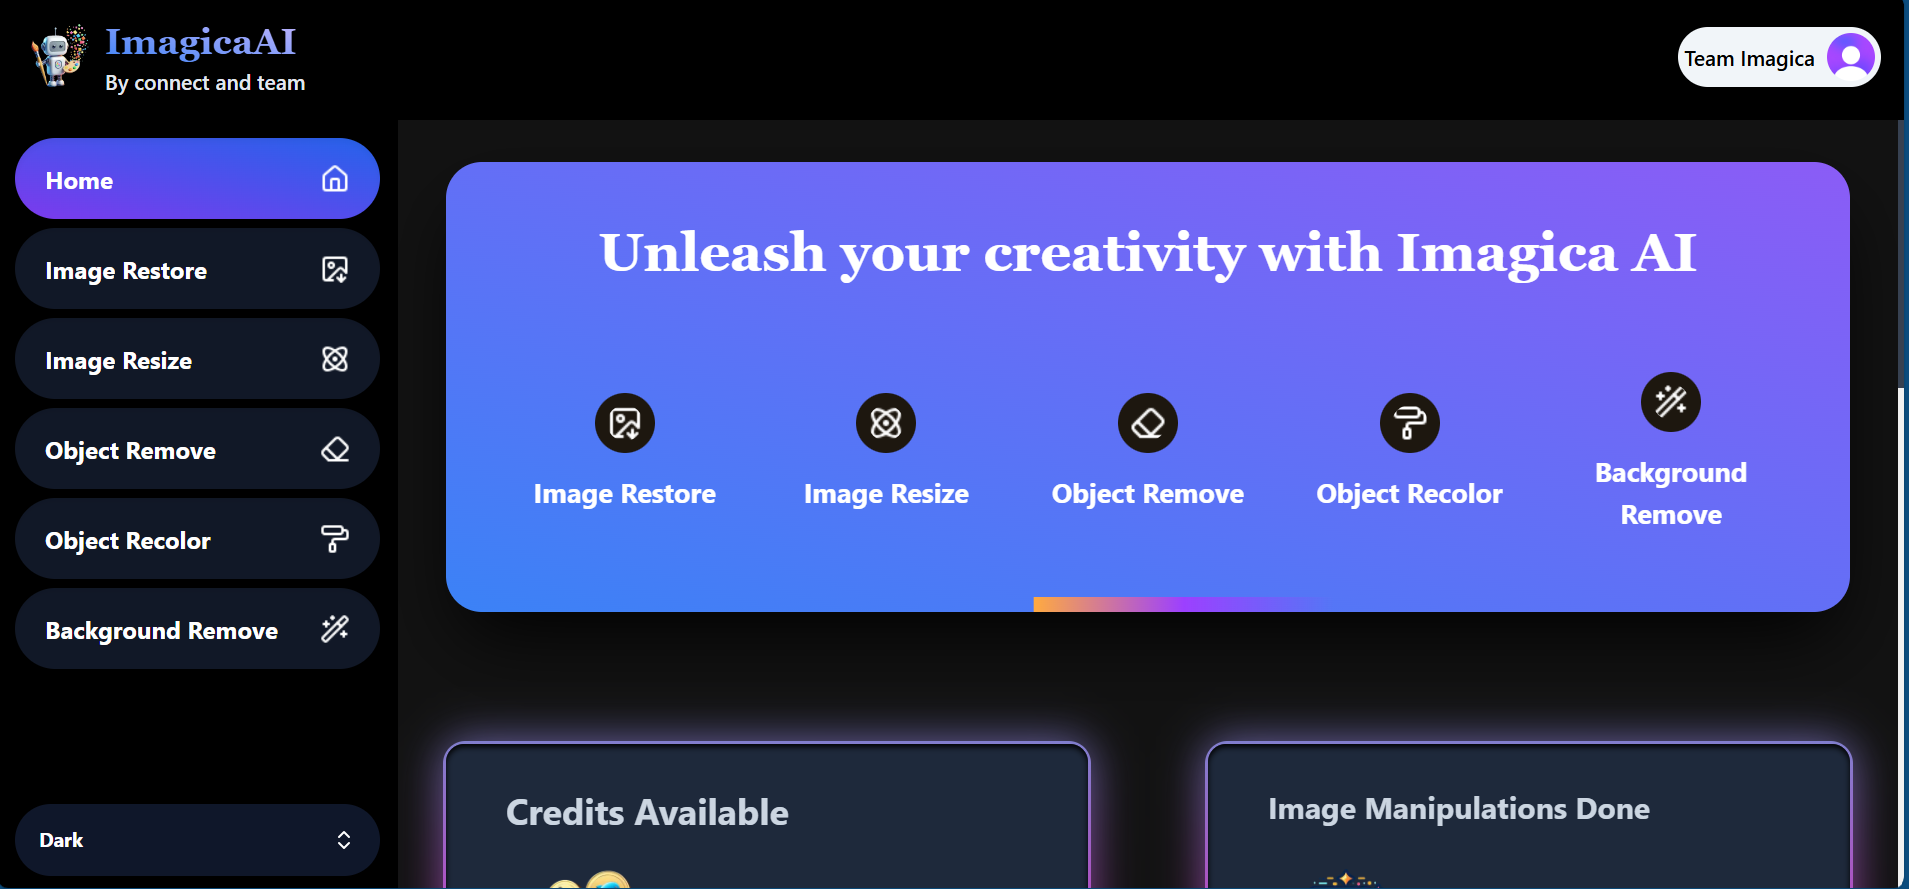
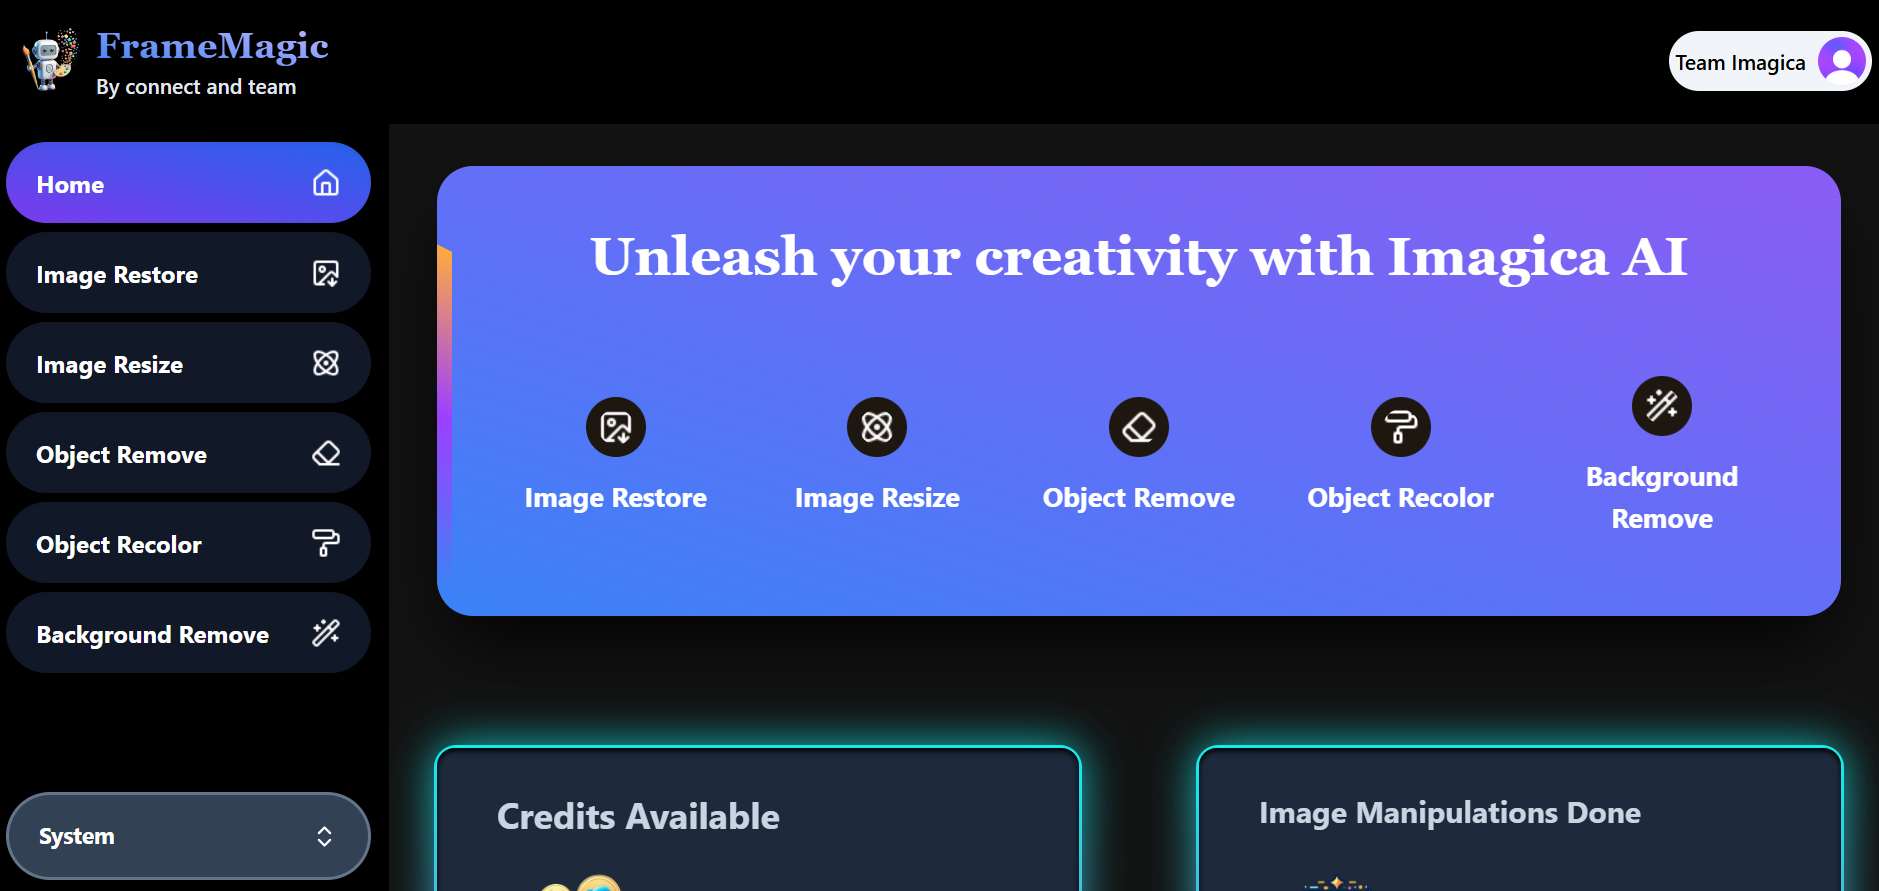
Changed app name

diff --git a/constants/index.ts b/constants/index.ts
@@ -146,7 +146,7 @@ export const AboutUs = [
 ];
 
 export const privacyPolicy = [
-  "Welcome to Imagica. We are committed to protecting your privacy and ensuring the security of your personal information. This Privacy Policy explains how we collect, use, disclose, and safeguard your information when you use our web application, which includes AI tools for image edits such as background remover, object remover, object recolor, image resize, restore images, and more. When you create an account, log in, or use our services, we collect personal information such as your name, email address, password (securely stored via Clerk), and user images, along with usage data like IP address, browser type, and device type. This information helps us operate, maintain, and improve our application, communicate with you, and ensure the security of our services. User images and edits are processed and stored using Cloudinary, and all other data is stored securely in MongoDB.",
+  "Welcome to FrameMagic. We are committed to protecting your privacy and ensuring the security of your personal information. This Privacy Policy explains how we collect, use, disclose, and safeguard your information when you use our web application, which includes AI tools for image edits such as background remover, object remover, object recolor, image resize, restore images, and more. When you create an account, log in, or use our services, we collect personal information such as your name, email address, password (securely stored via Clerk), and user images, along with usage data like IP address, browser type, and device type. This information helps us operate, maintain, and improve our application, communicate with you, and ensure the security of our services. User images and edits are processed and stored using Cloudinary, and all other data is stored securely in MongoDB.",
   "We do not sell, trade, or transfer your personal information to outside parties without your consent, except to trusted service providers like Clerk for authentication, Cloudinary for image processing, and MongoDB for database storage, all of whom assist us in operating our application and ensuring its security. We implement a variety of security measures, including encryption and secure servers, to protect your data. You have rights regarding your personal information, such as access, rectification, and deletion, depending on your location. Our application may contain links to third-party websites, and we encourage you to review their privacy policies. We may update our Privacy Policy periodically, and changes will be posted on this page. If you have any questions, please contact us at connectandteam@gmail.com. By using our application, you acknowledge that you have read and understood this Privacy Policy."
 ];
 

diff --git a/components/homepage/About.tsx b/components/homepage/About.tsx
@@ -24,43 +24,43 @@ const About = () => {
       <h1 className="text-xl w-full text-start font-bold">
         Experience the future of image editing.
       </h1>
-      <div className="md:flex-row flex flex-col gap-10 justify-center items-center">
+      <div className="md:flex-row w-full flex flex-col gap-10 justify-center items-center">
         {resolvedTheme == "dark"
-          ? <div className="w-fit md:w-full flex justify-center items-center border rounded-lg p-3">
+          ? <div className="w-fit md:w-full flex justify-center items-center border-2 rounded-lg p-1">
               <Image
                 src="/aboutSection-dark.png"
                 alt="about"
                 height={300}
                 width={900}
-                className="w-full hidden sm:flex"
+                className="w-full hidden sm:flex rounded-lg"
               />
               <Image
-                src="/aboutSection-pone-dark.png"
+                src="/aboutSection-phone-dark.png"
                 alt="about"
                 height={300}
                 width={300}
                 className="w-60 sm:hidden"
               />
             </div>
-          : <div className="w-fit md:w-full flex justify-center items-center border rounded-lg p-3">
+          : <div className="w-fit md:w-full flex justify-center items-center border-2 rounded-lg p-1">
               <Image
                 src="/aboutSection-light.png"
                 alt="about"
                 height={300}
                 width={900}
-                className="w-full hidden sm:flex"
+                className="w-full hidden sm:flex rounded-lg"
               />
               <Image
-                src="/aboutSection-pone-light.png"
+                src="/aboutSection-phone-light.png"
                 alt="about"
                 height={300}
                 width={300}
                 className="w-60 sm:hidden"
               />
             </div>}
-        <div className="flex flex-col gap-2">
+        <div className="flex flex-col gap-2 w-full">
           <h2 className="text-[14px] sm:text-lg font-semibold">
-            Welcome to Imagica, your one-stop solution for all your image
+            Welcome to FrameMagic, your one-stop solution for all your image
             editing needs! Whether you&apos;re a professional photographer, a
             hobbyist, or someone looking to enhance personal photos, our
             advanced tools are designed to help you achieve stunning results

diff --git a/components/homepage/MainSection.tsx b/components/homepage/MainSection.tsx
@@ -1,11 +1,12 @@
 "use client";
 
 import { useTheme } from "next-themes";
-import TypingAnimation from "../magicui/typing-animation";
+import TypingAnimation from "../ui/typing-animation";
 import Link from "next/link";
 import Image from "next/image";
 import { ChevronDownCircle, Medal } from "lucide-react";
 import ScrollToTop from "./ScrollToTop";
+import Meteors from "../ui/meteors";
 
 const MainSection = () => {
   const { resolvedTheme } = useTheme();
@@ -15,6 +16,7 @@ const MainSection = () => {
       id="home"
       className="min-h-screen pt-28 flex flex-col justify-center items-center md:gap-10 sm:gap-8 gap-6 p-6"
     >
+      <Meteors />
       <div className="flex gap-3 bg-gradient-to-tr to-violet-500 from-blue-500 p-3 rounded-xl text-slate-100 font-bold">
         <Medal className="text-yellow-200" /> No.1 app for image edits
       </div>
@@ -50,15 +52,15 @@ const MainSection = () => {
       {resolvedTheme == "dark"
         ? <Image
             src="/HomeDark.png"
-            alt="imagica"
+            alt="framemagic"
             height={900}
             width={900}
             className="border-2 sm:flex hidden border-slate-500 rounded-xl w-[800px] hover:scale-105 duration-300"
           />
         : <Image
-            src="/imagicaHome.png"
-            alt="imagica"
-            height={900}
+            src="/HomeLight.png"
+            alt="framemagic"
+            height={400}
             width={900}
             className="border-2 sm:flex hidden border-slate-500 rounded-xl w-[800px] hover:scale-105 duration-300"
           />}
@@ -66,14 +68,14 @@ const MainSection = () => {
       {resolvedTheme == "dark"
         ? <Image
             src="/phoneDark.png"
-            alt="imagica"
+            alt="framemagic"
             height={500}
             width={500}
             className="border-2 flex sm:hidden border-slate-500 rounded-xl w-full hover:scale-105 duration-300"
           />
         : <Image
             src="/phoneLight.png"
-            alt="imagica"
+            alt="framemagic"
             height={400}
             width={500}
             className="border-2 flex sm:hidden border-slate-500 rounded-xl w-full hover:scale-105 duration-300"

diff --git a/components/homepage/Header.tsx b/components/homepage/Header.tsx
@@ -60,16 +60,16 @@ const Header = () => {
         <div className="hidden lg:flex gap-2 ">
           <Link
             href="/login"
-            className={`flex justify-center items-center rounded-full text-lg p-2 px-3 shadow-inner w-full border-2 ${resolvedTheme ==
+            className={`flex justify-center items-center rounded-lg text-lg p-1 px-3 shadow-inner w-full ${resolvedTheme ==
             "dark"
-              ? "hover:bg-slate-100 hover:text-black shadow-black border-slate-500"
+              ? "hover:bg-slate-100 hover:text-black shadow-slate-500 border-slate-500"
               : "hover:bg-slate-900 shadow-slate-400 hover:text-slate-100 border-slate-500"}`}
           >
             Login
           </Link>
           <Link
             href="/register"
-            className={`flex justify-center items-center rounded-full text-lg p-2 px-3 shadow-inner w-full border-2 ${resolvedTheme ==
+            className={`flex justify-center items-center rounded-lg text-lg p-1 px-3 shadow-inner w-full ${resolvedTheme ==
             "dark"
               ? "bg-slate-700 hover:bg-slate-800 shadow-black border-slate-500"
               : "bg-slate-200 hover:bg-slate-300 shadow-slate-400 border-slate-500"}`}

diff --git a/components/ui/meteors.tsx b/components/ui/meteors.tsx
@@ -1,0 +1,42 @@
+"use client";
+
+import { useEffect, useState } from "react";
+
+import { cn } from "@/lib/utils";
+
+interface MeteorsProps {
+  number?: number;
+}
+export const Meteors = ({ number = 50 }: MeteorsProps) => {
+  const [meteorStyles, setMeteorStyles] = useState<Array<React.CSSProperties>>(
+    [],
+  );
+
+  useEffect(() => {
+    const styles = [...new Array(number)].map(() => ({
+      top: -10,
+      left: Math.floor(Math.random() * window.innerWidth) + "px",
+      animationDelay: Math.random() * 1 + 0.2 + "s",
+      animationDuration: Math.floor(Math.random() * 8 + 2) + "s",
+    }));
+    setMeteorStyles(styles);
+  }, [number]);
+
+  return (
+    <>
+      {[...meteorStyles].map((style, idx) => (
+        <span
+          key={idx}
+          className={cn(
+            "pointer-events-none absolute left-1/2 top-1/2 size-0.5 rotate-[215deg] animate-meteor rounded-full bg-slate-500 shadow-[0_0_0_1px_#ffffff10]",
+          )}
+          style={style}
+        >
+          <div className="pointer-events-none absolute top-1/2 -z-10 h-px w-[50px] -translate-y-1/2 bg-gradient-to-r from-slate-500 to-transparent" />
+        </span>
+      ))}
+    </>
+  );
+};
+
+export default Meteors;

diff --git a/tailwind.config.js b/tailwind.config.js
@@ -11,6 +11,7 @@ module.exports = {
   theme: {
     extend: {
       animation: {
+        meteor: "meteor 5s linear infinite",
         "border-beam": "border-beam calc(var(--duration)*1s) infinite linear",
         backgroundPositionSpin:
           "background-position-spin 1000ms infinite alternate"
@@ -22,9 +23,17 @@ module.exports = {
         },
         "border-beam": {
           "100%": {
-            "offset-distance": "100%",
-          },
+            "offset-distance": "100%"
+          }
         },
+        meteor: {
+          "0%": { transform: "rotate(215deg) translateX(0)", opacity: 1 },
+          "70%": { opacity: 1 },
+          "100%": {
+            transform: "rotate(215deg) translateX(-500px)",
+            opacity: 0
+          }
+        }
       }
     }
   },

diff --git a/components/DashboardCard.tsx b/components/DashboardCard.tsx
@@ -19,7 +19,7 @@ const DashboardCard = () => {
     >
       <BorderBeam borderWidth={10} />
       <h3 className="text-xl sm:text-2xl text-center md:text-3xl lg:text-4xl font-extrabold font-serif">
-        Unleash your creativity with Imagica AI
+        Unleash your creativity with framemagic AI
       </h3>
       <ul className="hidden sm:flex justify-between items-center w-full">
         {SideBar.slice(1, 6).map((link, index) =>

diff --git a/components/homepage/Features.tsx b/components/homepage/Features.tsx
@@ -6,7 +6,7 @@ const Features = () => {
   const { resolvedTheme } = useTheme();
 
   return (
-    <div id="features" className="pt-24 flex flex-col gap-4">
+    <div id="features" className="py-24 flex flex-col gap-4">
       <h2 className="text-4xl font-extrabold">Features</h2>
       <h3 className="sm:text-2xl text-xl font-bold">
         Unlock Your Creative Potential with Our Advanced Features

diff --git a/app/layout.tsx b/app/layout.tsx
@@ -11,7 +11,7 @@ import FixedHeader from "@/components/FixedHeader";
 const inter = Inter({ subsets: ["latin"] });
 
 export const metadata: Metadata = {
-  title: "Imagica AI",
+  title: "FrameMagic | Connect and team",
   description: "AI tool for images restore, Remove background, image resize, object remove from image and change color of the objects",
   icons: "/logo.png"
 };

diff --git a/components/Logo.tsx b/components/Logo.tsx
@@ -17,7 +17,7 @@ const Logo = () => {
             ? "to-violet-300 from-blue-500"
             : "to-violet-600 from-blue-600"} text-lg sm:text-xl md:text-2xl bg-gradient-to-tr bg-clip-text text-transparent font-bold font-serif`}
         >
-          ImagicaAI
+          FrameMagic
         </h1>
         <h2
           className={`${resolvedTheme == "dark"

diff --git a/lib/database/mongoose.ts b/lib/database/mongoose.ts
@@ -23,8 +23,7 @@ export const connectToDatabase = async () => {
 
   cached.promise =
     cached.promise ||
-    mongoose.connect(MONGODB_URL, { dbName: "imagica", bufferCommands: false });
+    mongoose.connect(MONGODB_URL, { dbName: "framemagic", bufferCommands: false });
 
   cached.conn = await cached.promise;
 };
-

diff --git a/components/homepage/Contact.tsx b/components/homepage/Contact.tsx
@@ -71,7 +71,7 @@ const Contact = () => {
       <div className="w-full hidden md:flex justify-center items-center">
         <Image
           src="/logo.png"
-          alt="Imagica"
+          alt="framemagic"
           height={300}
           width={300}
           className="size-full"
